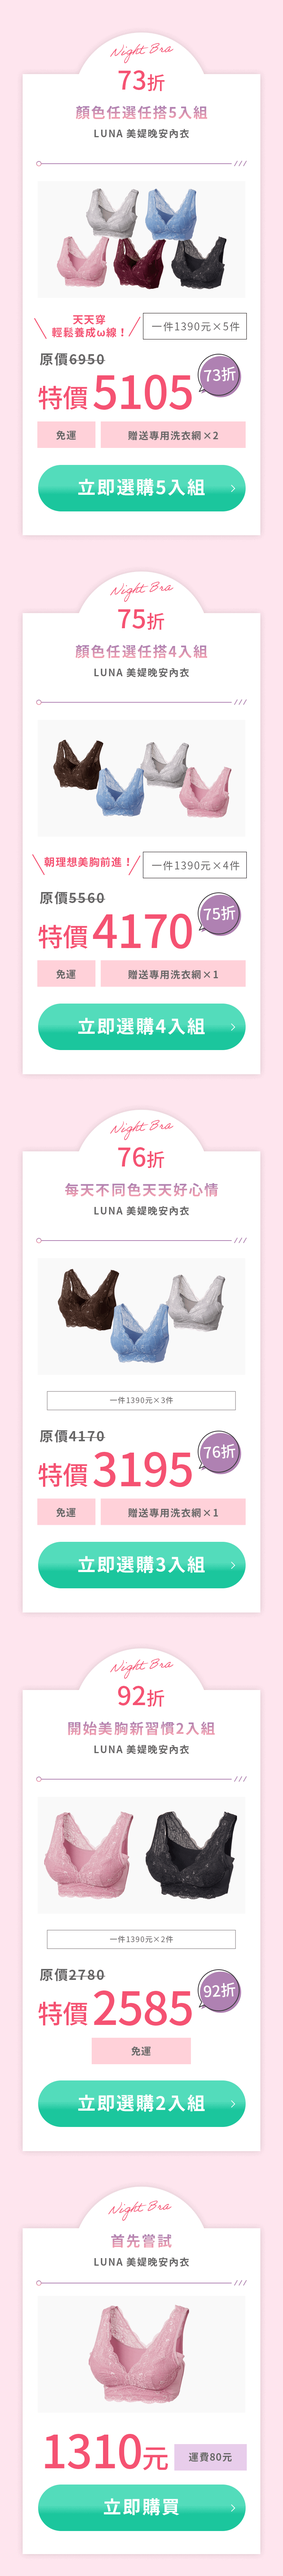
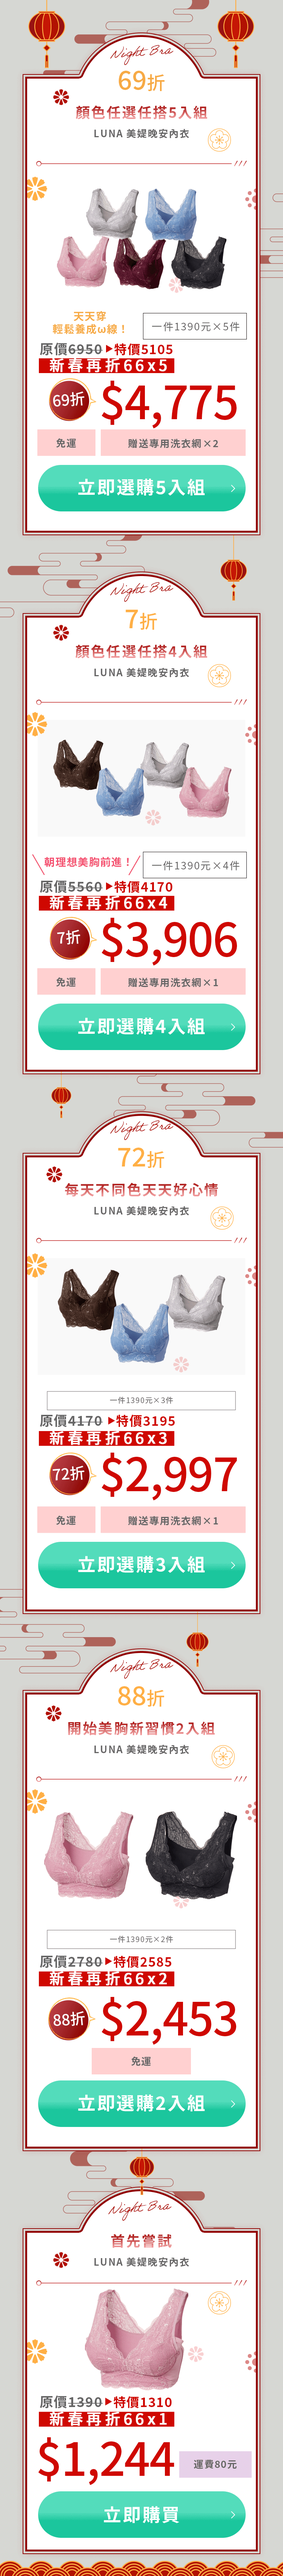
20220113_add lottery

diff --git a/index.html b/index.html
@@ -2,7 +2,7 @@
 <html>
 
 <head>
-    <title>LUNA美媞晚安內衣｜老顧客獨享9折專屬網站💕美胸保養不間斷🌸</title>
+    <title>穿Luna挺好運∣小胸挺出來！ 1/14~1/27 低至64折+買就抽萬元心願禮任你挑</title>
     <meta name="Description"
         content="日本專利設計小胸福星，輕鬆打造美胸ω歐美伽曲線，美胸不再是大CUP的專利！穿著錯誤尺寸的內衣或是受地心引力影響都會使ω歐美伽曲線變形。只是穿著Luna 晚安內衣改善了ω歐美伽曲線的長度，視覺上的效果就完全不一樣！？鈴木奈奈穿著3個月後成功讓A罩杯看起來有C罩杯！">
     <meta name="keywords" content="luna,luna內衣,晚安內衣,美媞內衣,夜晚美胸,Luna美媞晚安內衣,小胸內衣,睡覺 內衣,睡眠 內衣">
@@ -276,7 +276,10 @@
                 <section class="main">
                     <!-- main pc -->
                     <div class="fv">
+                      <img src="images/01_banner.png" alt="">
                         <img src="images/01.png" alt="">
+                        <img class="anniversary_1" src="images/lottery.png" alt="" style="cursor: pointer;">
+                        <img class="anniversary_2" src="images/lottery-2.png" alt="" style="display:none;">
                         <img src="images/02.png" alt="">
                         <div class="video_box">
                             <img src="images/03.png" alt="">

diff --git a/css/style.css b/css/style.css
@@ -138,6 +138,30 @@ body{
     font-size: 14px;
 }
 
+img.anniversary_2{
+    width:40%;
+    position: fixed;
+    top:-1%;
+    right:30%;
+    z-index:100;
+    cursor: pointer;
+}
+@media screen and (max-width: 768px){
+    img.anniversary_2 {
+        width:101%;
+        position: fixed;
+        top: 5%;
+        right:-1%;
+        z-index: 100;
+    }
+}
+
+@media screen and (max-width: 414px){
+    img.anniversary_2 {
+       top: 10%;
+    }
+}
+
 .SP{
     display: none;
 }

diff --git a/js/all.js b/js/all.js
@@ -7,4 +7,14 @@ $(document).ready(function () {
         }, 900);
     });
 
+    //活動辦法彈跳視窗
+    $(".anniversary_2").hide();
+    $('.anniversary_1').click(function (e) {
+        e.preventDefault();
+        $(".anniversary_2").toggle();;
+    });
+    $('.anniversary_2').click(function (e) {
+        e.preventDefault();
+        $(".anniversary_2").hide();
+    });
 });
